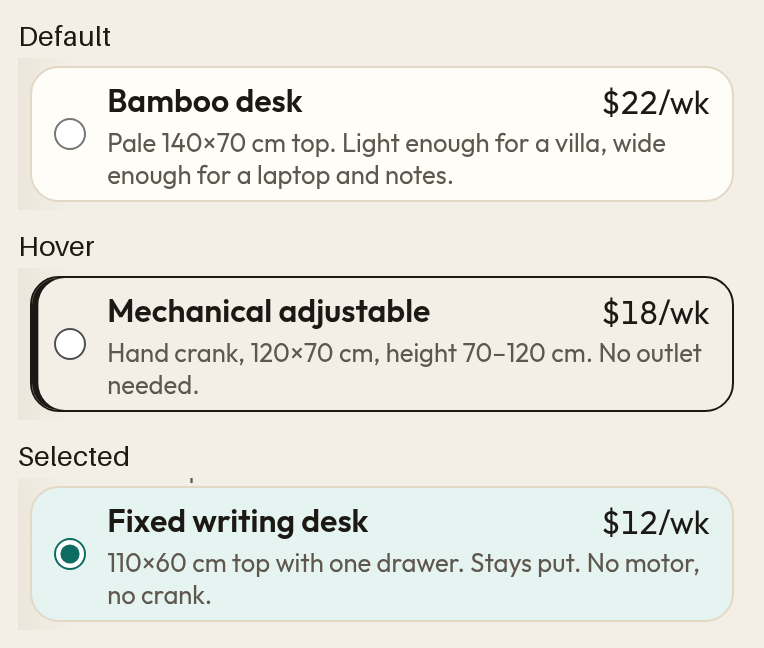
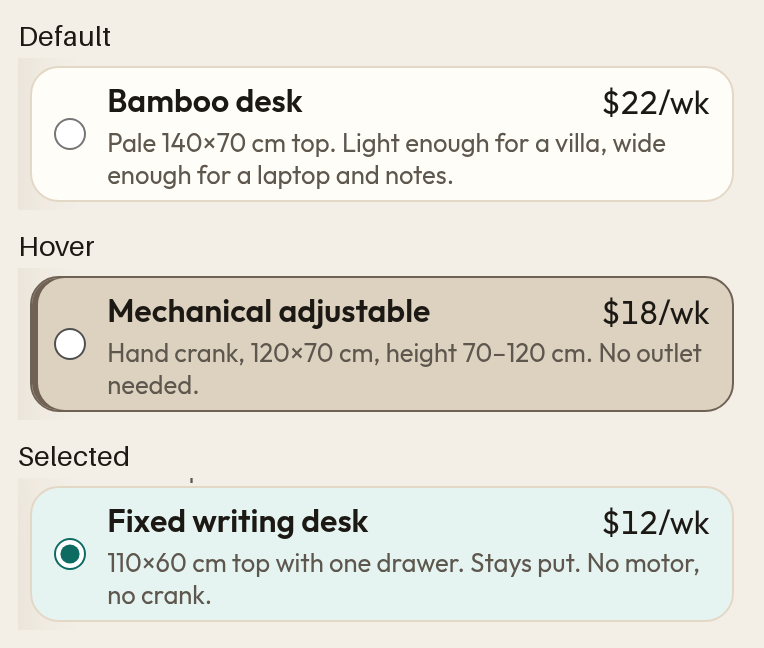
[studio] Kept the option-card hover on the clean day and night themes

Changed region(s): [[0.0301, 0.4012, 0.9634, 0.6481]]

diff --git a/src/styles/blocks/option-card.scss b/src/styles/blocks/option-card.scss
@@ -8,17 +8,7 @@
   border-radius: 0.9rem;
   padding: 0.32rem 0.7rem;
   background: var(--color-surface);
-  box-shadow: none;
   cursor: pointer;
-  transition: background 0.16s ease, border-color 0.16s ease, box-shadow 0.16s ease;
-
-  // Paper fill and a rail. Not the mint wash that marks the chosen radio.
-  &:hover,
-  &:focus-within {
-    border-color: var(--color-text);
-    background: var(--color-bg);
-    box-shadow: inset max(3px, 0.22vw) 0 0 var(--color-text);
-  }
 
   &__input {
     grid-row: 1 / span 2;
@@ -46,10 +36,16 @@
     line-height: 1.25;
   }
 
-  // Mint fill wins over hover, including when the pointer is on the chosen row.
+  // Unchecked hover is its own fill. It is not the selected soft fill.
+  &:hover {
+    background: var(--color-card-hover);
+    border-color: var(--color-card-hover-border);
+    box-shadow: inset 3px 0 0 var(--color-card-hover-border);
+  }
+
+  // Soft fill marks the radio, including while the pointer stays on it.
   &:has(&__input:checked),
-  &:hover:has(&__input:checked),
-  &:focus-within:has(&__input:checked) {
+  &:has(&__input:checked):hover {
     background: var(--color-accent-soft);
     border-color: var(--color-border);
     box-shadow: none;

diff --git a/src/styles/blocks/app-header.scss b/src/styles/blocks/app-header.scss
@@ -19,11 +19,6 @@
     text-decoration: none;
   }
 
-  // The wordmark is a sibling element, so the hover stays on the brand link.
-  &__brand:hover &__mark {
-    color: var(--color-accent);
-  }
-
   &__mark {
     font-family: var(--font-fraunces), ui-serif, Georgia, serif;
     font-size: 1.25rem;
@@ -46,14 +41,8 @@
     padding: 0.4rem 0.75rem;
     color: var(--color-text);
     text-decoration: none;
-    transition: background 0.16s ease, box-shadow 0.16s ease;
 
-    &:hover {
-      background: color-mix(in srgb, var(--color-text) 8%, transparent);
-    }
-
-    &--current,
-    &--current:hover {
+    &--current {
       background: var(--color-surface);
       box-shadow: inset 0 0 0 1px var(--color-border);
     }
@@ -75,11 +64,6 @@
     color: var(--color-text);
     font: inherit;
     cursor: pointer;
-    transition: background 0.16s ease, color 0.16s ease;
-
-    &:hover {
-      background: var(--color-bg);
-    }
   }
 }
 

diff --git a/src/styles/blocks/button.scss b/src/styles/blocks/button.scss
@@ -13,12 +13,6 @@
   line-height: 1.1;
   text-decoration: none;
   cursor: pointer;
-  transition: background 0.16s ease, border-color 0.16s ease, color 0.16s ease;
-
-  // Darken the teal. Disabled stays put so a waiting submit does not look pressable.
-  &:hover:not(:disabled) {
-    background: color-mix(in srgb, var(--color-accent) 78%, var(--color-text));
-  }
 
   &:disabled {
     opacity: 0.55;
@@ -31,20 +25,9 @@
     border-color: var(--color-border);
   }
 
-  &--ghost:hover:not(:disabled) {
-    background: var(--color-bg);
-    border-color: var(--color-text);
-    color: var(--color-text);
-  }
-
   &--quiet {
     background: transparent;
     color: var(--color-muted);
     padding-inline: 0.4rem;
-  }
-
-  &--quiet:hover:not(:disabled) {
-    background: transparent;
-    color: var(--color-text);
   }
 }

diff --git a/src/styles/base/variables.scss b/src/styles/base/variables.scss
@@ -41,6 +41,10 @@
   --scene-night-bottom: #243156;
   --shadow-scene: 0 18px 40px rgba(60, 40, 20, 0.12);
 
+  // Unchecked option row. Not the mint selection wash.
+  --color-card-hover: #ddd2c0;
+  --color-card-hover-border: #6f6254;
+
   --radius-card: 1rem;
   --font-base: 1rem;
   --focus-ring: 2px solid var(--color-accent);
@@ -57,6 +61,8 @@
   --color-border: #2c3648;
   --color-danger: #ffb4a4;
   --color-danger-soft: #3a2420;
+  --color-card-hover: #2c2430;
+  --color-card-hover-border: #e7d0d4;
 
   --scene-wall: #1a2230;
   --scene-wall-shadow: #121822;

diff --git a/src/styles/blocks/picker.scss b/src/styles/blocks/picker.scss
@@ -37,16 +37,8 @@
     text-align: center;
     white-space: nowrap;
     cursor: pointer;
-    transition: background 0.16s ease, border-color 0.16s ease, color 0.16s ease;
 
-    &:hover {
-      border-color: var(--color-text);
-      background: var(--color-bg);
-    }
-
-    // The open category keeps the accent fill when the pointer is on it.
-    &--active,
-    &--active:hover {
+    &--active {
       border-color: var(--color-accent);
       background: var(--color-accent);
       color: var(--color-accent-ink);

diff --git a/src/styles/blocks/slot-pop.scss b/src/styles/blocks/slot-pop.scss
@@ -36,16 +36,8 @@
     border: 0;
     background: transparent;
     color: var(--color-muted);
-    border-radius: 999px;
-    padding: 0.15rem 0.45rem;
     font: inherit;
     cursor: pointer;
-    transition: background 0.16s ease, color 0.16s ease;
-
-    &:hover {
-      background: var(--color-bg);
-      color: var(--color-text);
-    }
   }
 
   &--plant {

diff --git a/src/styles/blocks/field.scss b/src/styles/blocks/field.scss
@@ -33,12 +33,6 @@
     font: inherit;
     font-size: 1.2rem;
     cursor: pointer;
-    transition: background 0.16s ease, border-color 0.16s ease;
-
-    &:hover {
-      border-color: var(--color-text);
-      background: var(--color-bg);
-    }
   }
 
   &__weeks {

diff --git a/src/styles/blocks/studio-page.scss b/src/styles/blocks/studio-page.scss
@@ -42,11 +42,8 @@
     font: inherit;
     cursor: pointer;
 
-    transition: background 0.16s ease, border-color 0.16s ease;
-
     &:hover {
       border-color: var(--color-accent);
-      background: var(--color-bg);
     }
   }
 }

diff --git a/documents/userflow/studio/studio.md b/documents/userflow/studio/studio.md
@@ -2,7 +2,7 @@
 
 1. The renter opens `/` and sees the room. Empty slots are dashed silhouettes with a plus.
 2. Hover stretches a piece and pulses it. A chosen piece pulses on its own. Click opens that category in the sidebar when the list is open, or a pop-up beside the piece when the sidebar is collapsed. The option list scrolls without a visible scrollbar.
-3. A radio choice replaces that silhouette with an explicit icon. Hovering an option that is not selected fills that row with the page paper and a side rail. The selected row keeps its mint fill. "None" on monitor, lamp, or plant returns the silhouette.
+3. A radio choice replaces that silhouette with an explicit icon. Hovering an option that is not selected uses its own fill and a side rail. The selected row keeps its mint fill. "None" on monitor, lamp, or plant returns the silhouette.
 4. Monitor, lamp, and plant can be chosen before a desk. The other optional slots stay open.
 5. White theme shows daylight in the window. Dark theme shows the moon.
 6. Review rental goes to `/checkout`. Rent needs a desk and a chair. Start over clears the setup.

diff --git a/.prompts/base/how_to_visualise.md b/.prompts/base/how_to_visualise.md
@@ -35,8 +35,10 @@ White theme is warm paper, not a blank `#fff` sheet. Dark theme overrides the sa
 | Text on accent | `--color-accent-ink` | `#f4fffc` | `#10211f` |
 | Border | `--color-border` | `#e3d7c6` | `#2c3648` |
 | Danger | `--color-danger` | `#9c341f` | `#ffb4a4` |
+| Unchecked option hover | `--color-card-hover` | `#ddd2c0` | `#2c2430` |
+| Unchecked option edge | `--color-card-hover-border` | `#6f6254` | `#e7d0d4` |
 
-Scene paints (`--scene-wood`, `--scene-sky-top`, `--scene-moon`, and the rest) are the only colors inside the room SVG. Do not introduce a second palette in a component.
+Scene paints (`--scene-wood`, `--scene-sky-top`, `--scene-moon`, and the rest) are the only colors inside the room SVG. Do not introduce a second palette in a component. The option hover tokens are only for an unchecked radio row. The checked row stays `--color-accent-soft`.
 
 ## Typography
 

diff --git a/documents/tech/web_tech_ui.md b/documents/tech/web_tech_ui.md
@@ -36,4 +36,4 @@ Each piece has a hit area. Hover stretches the piece and pulses it; a filled pie
 
 ## Picker
 
-Five labels share the picker width: Desk, Chair, Monitor, Lamp, Plant. On a narrow column they wrap onto a second line. They do not scroll off the edge. An unselected option card uses the page paper and a side rail on hover. The selected card keeps the mint fill (`--color-accent-soft`). Category tabs, header links, and the theme switch use the same idea: hover is visible, and the current choice keeps its own fill.
+Five labels share the picker width: Desk, Chair, Monitor, Lamp, Plant. On a narrow column they wrap onto a second line. They do not scroll off the edge. An unselected option card uses `--color-card-hover` and a side rail on hover. The selected card keeps the mint fill (`--color-accent-soft`), including while the pointer is on it.
